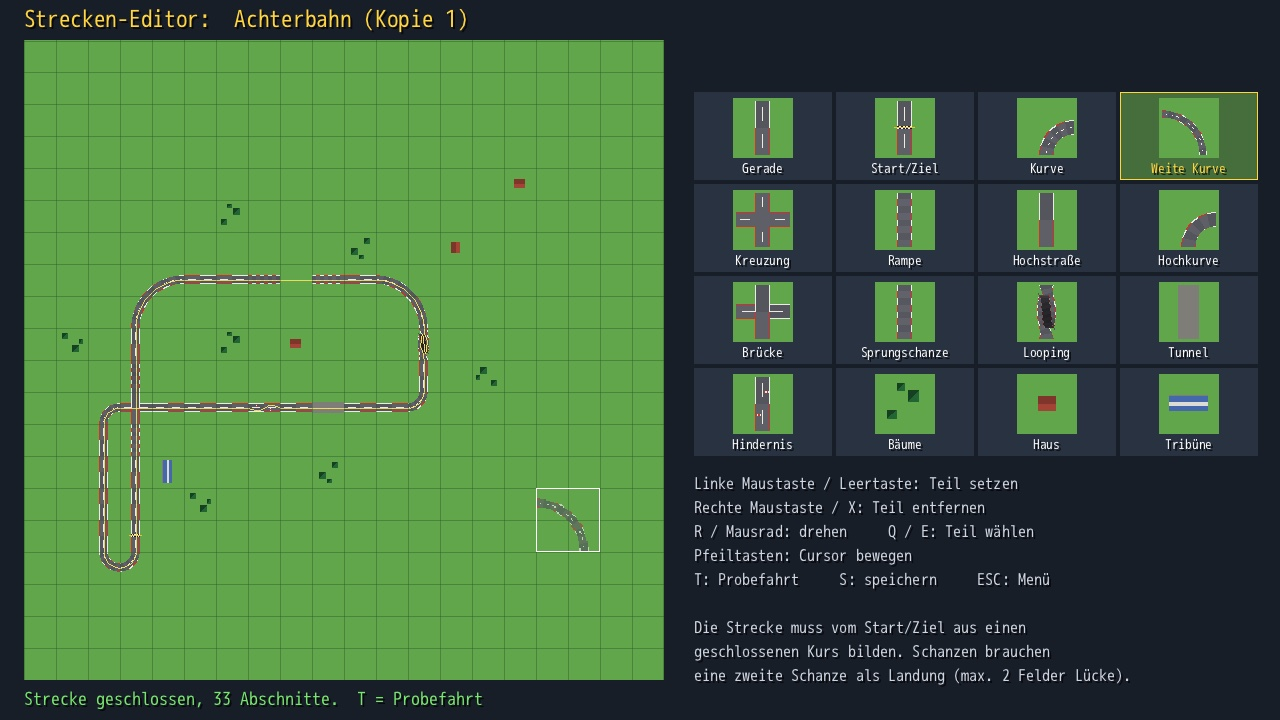
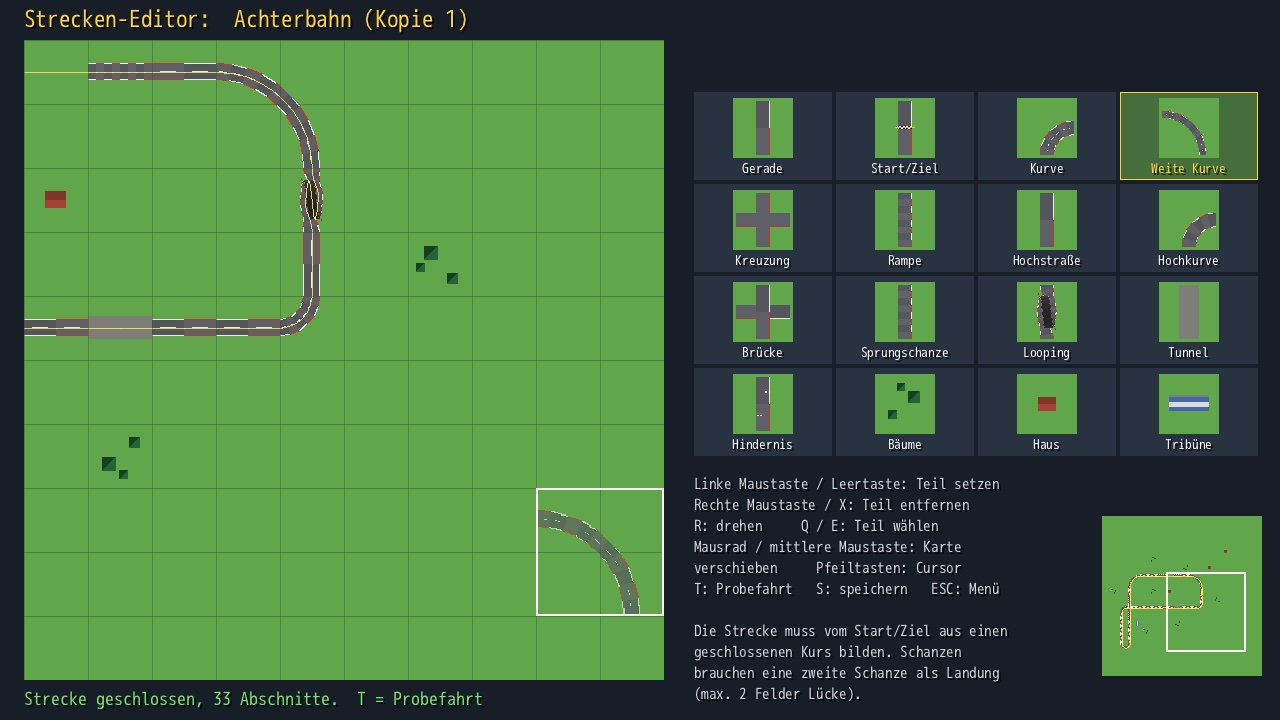
Editor: larger tiles on a scrollable map with an overview
The tiles are 64 px instead of 32 px, so the direction of a part is
easy to see. The map shows 10x10 of the 20x20 tiles and scrolls with
the mouse wheel, the middle mouse button, a click on the new overview
or the keyboard cursor. The mouse wheel no longer rotates the part.

diff --git a/app/game/editor.rb b/app/game/editor.rb
@@ -1,13 +1,23 @@
 # The track editor: a top-down map of the tile grid on the left, the
-# available pieces on the right. Pieces are placed with the mouse (or the
-# keyboard cursor) and the route is checked after every change.
+# available pieces on the right. The map shows a scrollable part of the
+# grid (mouse wheel, middle mouse button, the overview or the keyboard
+# cursor move it). Pieces are placed with the mouse (or the keyboard
+# cursor) and the route is checked after every change.
 class Editor
   MX = 24
   MY = 40
-  CELL = 32
+  CELL = 64
   MAP = CELL * Track::SIZE
+  VIEW = 640 # visible part of the map in pixels
+  SCROLL_MAX = MAP - VIEW
+  WHEEL = 32 # pixels per wheel step
   PX = 694
   ICON = 60
+  ICON_RT = 128 # resolution of a palette icon (also drawn as the ghost)
+  ICON_FILL = 0.9
+  OV = 160 # overview of the whole grid
+  OVX = 1102
+  OVY = 44
   SLOT_W = 142
   SLOT_H = 92
   PAL_TOP = 628
@@ -24,7 +34,9 @@ class Editor
     @changed = false
     @palette_ready = false
     @last_paint = nil
+    @drag = nil
     rebuild
+    center_view
   end
 
   def mark_saved
@@ -49,6 +61,72 @@ class Editor
     Pieces::ORDER[@sel]
   end
 
+  # ---------------------------------------------------------------- view
+
+  def scroll_to(x, y)
+    @vx = D3D.clamp(x, 0, SCROLL_MAX)
+    @vy = D3D.clamp(y, 0, SCROLL_MAX)
+  end
+
+  # Starts with the middle of the track (or of the grid) in view.
+  def center_view
+    ci = cj = Track::SIZE / 2.0
+    unless @track.empty?
+      cells = @track.cells.map do |k, (id, rot)|
+        i, j = @track.coords(k)
+        fw, fd = Pieces.footprint(id, rot)
+        [i, j, i + fw, j + fd]
+      end
+      ci = (cells.map { |c| c[0] }.min + cells.map { |c| c[2] }.max) / 2.0
+      cj = (cells.map { |c| c[1] }.min + cells.map { |c| c[3] }.max) / 2.0
+    end
+    scroll_to(ci * CELL - VIEW / 2, cj * CELL - VIEW / 2)
+    @cur = [D3D.clamp(ci.floor, 0, Track::SIZE - 1), D3D.clamp(cj.floor, 0, Track::SIZE - 1)]
+  end
+
+  # Scrolls just far enough to show the cursor and the tiles around it.
+  def show_cursor
+    i, j = @cur
+    x = [[@vx, (i - 1) * CELL].min, (i + 2) * CELL - VIEW].max
+    y = [[@vy, (j - 1) * CELL].min, (j + 2) * CELL - VIEW].max
+    scroll_to(x, y)
+  end
+
+  # Mouse wheel, middle mouse button and the overview. Returns true when
+  # the view moved.
+  def scroll_input(args, over_map)
+    kb = args.inputs.keyboard
+    mouse = args.inputs.mouse
+    x = @vx
+    y = @vy
+    if mouse.wheel
+      wx = mouse.wheel.x
+      wy = mouse.wheel.y
+      # a plain wheel scrolls sideways with Shift
+      wx, wy = wy, 0 if wx == 0 && (kb.key_held.shift || kb.key_down.shift)
+      scroll_to(@vx + wx * WHEEL, @vy + wy * WHEEL)
+    end
+    if mouse.button_middle
+      scroll_to(@vx - (mouse.x - @drag[0]), @vy - (mouse.y - @drag[1])) if @drag
+      @drag = [mouse.x, mouse.y]
+    else
+      @drag = nil
+    end
+    @ov_drag = false unless mouse.button_left
+    @ov_drag = true if mouse.click && mouse.button_left && over_overview?(mouse)
+    if @ov_drag
+      f = MAP / OV.to_f
+      scroll_to((mouse.x - OVX) * f - VIEW / 2, (mouse.y - OVY) * f - VIEW / 2)
+    end
+    @painting = false unless mouse.button_left
+    @painting = true if mouse.click && mouse.button_left && over_map
+    x != @vx || y != @vy
+  end
+
+  def over_overview?(mouse)
+    mouse.x >= OVX && mouse.x < OVX + OV && mouse.y >= OVY && mouse.y < OVY + OV
+  end
+
   def input(args)
     kb = args.inputs.keyboard
     down = kb.key_down
@@ -59,9 +137,6 @@ class Editor
 
     n = Pieces::ORDER.size
     @rot = (@rot + 1) % 4 if down.r
-    if mouse.wheel
-      @rot = (@rot + (mouse.wheel.y > 0 ? 1 : 3)) % 4
-    end
     @sel = (@sel + (kb.key_held.shift ? n - 1 : 1)) % n if down.tab
     @sel = (@sel + 1) % n if down.e
     @sel = (@sel + n - 1) % n if down.q
@@ -69,10 +144,13 @@ class Editor
     @cur[0] = D3D.clamp(@cur[0] - 1, 0, Track::SIZE - 1) if down.left
     @cur[1] = D3D.clamp(@cur[1] + 1, 0, Track::SIZE - 1) if down.up
     @cur[1] = D3D.clamp(@cur[1] - 1, 0, Track::SIZE - 1) if down.down
+    show_cursor if down.right || down.left || down.up || down.down
 
-    over_map = mouse.x >= MX && mouse.x < MX + MAP && mouse.y >= MY && mouse.y < MY + MAP
-    if over_map && (mouse.moved || mouse.button_left || mouse.button_right)
-      @cur = [((mouse.x - MX) / CELL).floor, ((mouse.y - MY) / CELL).floor]
+    over_map = mouse.x >= MX && mouse.x < MX + VIEW && mouse.y >= MY && mouse.y < MY + VIEW
+    scrolled = scroll_input(args, over_map)
+    if over_map && (scrolled || mouse.moved || mouse.button_left || mouse.button_right)
+      @cur = [D3D.clamp(((mouse.x - MX + @vx) / CELL).floor, 0, Track::SIZE - 1),
+              D3D.clamp(((mouse.y - MY + @vy) / CELL).floor, 0, Track::SIZE - 1)]
     end
     if mouse.click && !over_map
       idx = palette_index(mouse.x, mouse.y)
@@ -80,7 +158,7 @@ class Editor
     end
 
     @last_paint = nil unless mouse.button_left
-    if down.space || (over_map && mouse.button_left)
+    if down.space || (over_map && @painting)
       paint = [@cur[0], @cur[1], @sel, @rot]
       if paint != @last_paint
         @last_paint = paint
@@ -119,15 +197,15 @@ class Editor
 
   def render_palette(args)
     rt = args.outputs[:palette]
-    rt.w = ICON * Pieces::ORDER.size
-    rt.h = ICON
+    rt.w = ICON_RT * Pieces::ORDER.size
+    rt.h = ICON_RT
     rt.background_color = [0, 0, 0, 0]
     Pieces::ORDER.each_with_index do |id, n|
       piece = Pieces::DEFS[id]
       b = PieceBuilder.new(0, 0, 0.0, 0.0)
       piece.build.call(b)
-      scale = (ICON - 6) / ([piece.w, piece.d].max * World::T)
-      rt.sprites << MapView.prims([b.ground], [b.geo], scale, (n + 0.5) * ICON, ICON / 2.0)
+      scale = ICON_RT * ICON_FILL / ([piece.w, piece.d].max * World::T)
+      rt.sprites << MapView.prims([b.ground], [b.geo], scale, (n + 0.5) * ICON_RT, ICON_RT / 2.0)
     end
     @palette_ready = true
   end
@@ -140,7 +218,28 @@ class Editor
       rt.lines << { x: v, y: 0, x2: v, y2: MAP, r: 40, g: 90, b: 40, a: 110 }
       rt.lines << { x: 0, y: v, x2: MAP, y2: v, r: 40, g: 90, b: 40, a: 110 }
     end
+    MapView.render_world(args, :editor_overview, @world, OV, [98, 166, 76, 255], [255, 232, 90])
     @map_dirty = false
+  end
+
+  # The visible part of the map with the cursor, clipped by a render target.
+  def render_view(args)
+    rt = args.outputs[:editor_view]
+    rt.w = VIEW
+    rt.h = VIEW
+    rt.background_color = [98, 166, 76, 255]
+    ox = -@vx.round
+    oy = -@vy.round
+    rt.sprites << { x: ox, y: oy, w: MAP, h: MAP, path: :editor_map }
+    route = @world.route
+    cell = route[:cell]
+    if !route[:ok] && cell && @track.in_bounds?(cell[0], cell[1])
+      3.times do |n|
+        rt.borders << { x: ox + cell[0] * CELL + n, y: oy + cell[1] * CELL + n, w: CELL - 2 * n,
+                        h: CELL - 2 * n, r: 255, g: 60, b: 40 }
+      end
+    end
+    draw_ghost(rt, ox, oy)
   end
 
   def draw(args)
@@ -150,56 +249,73 @@ class Editor
     out = args.outputs.sprites
     hud.rect(args, 0, 0, 1280, 720, [24, 30, 40])
     hud.text(args, MX, 700, "Strecken-Editor:  #{@track.name}", 26, Hud::YELLOW)
-    out << { x: MX, y: MY, w: MAP, h: MAP, path: :editor_map }
+    render_view(args)
+    out << { x: MX, y: MY, w: VIEW, h: VIEW, path: :editor_view }
 
     route = @world.route
     if route[:ok]
       hud.text(args, MX, 20, "Strecke geschlossen, #{route[:steps].size} Abschnitte.  T = Probefahrt", 20, Hud::GREEN)
     else
       hud.text(args, MX, 20, "Nicht fahrbar: #{route[:error]}", 20, Hud::RED)
-      cell = route[:cell]
-      if cell && @track.in_bounds?(cell[0], cell[1])
-        args.outputs.borders << { x: MX + cell[0] * CELL, y: MY + cell[1] * CELL, w: CELL, h: CELL,
-                                  r: 255, g: 60, b: 40 }
-        args.outputs.borders << { x: MX + cell[0] * CELL + 1, y: MY + cell[1] * CELL + 1, w: CELL - 2,
-                                  h: CELL - 2, r: 255, g: 60, b: 40 }
-      end
     end
 
-    draw_ghost(args)
     draw_palette(args)
+    draw_overview(args)
 
     y = 236
     ['Linke Maustaste / Leertaste: Teil setzen',
      'Rechte Maustaste / X: Teil entfernen',
-     'R / Mausrad: drehen     Q / E: Teil wählen',
-     'Pfeiltasten: Cursor bewegen',
-     'T: Probefahrt     S: speichern     ESC: Menü',
+     'R: drehen     Q / E: Teil wählen',
+     'Mausrad / mittlere Maustaste: Karte',
+     'verschieben     Pfeiltasten: Cursor',
+     'T: Probefahrt   S: speichern   ESC: Menü',
      '',
      'Die Strecke muss vom Start/Ziel aus einen',
-     'geschlossenen Kurs bilden. Schanzen brauchen',
-     'eine zweite Schanze als Landung (max. 2 Felder Lücke).'].each do |line|
-      hud.text(args, PX, y, line, 18, [206, 214, 226])
-      y -= 24
+     'geschlossenen Kurs bilden. Schanzen',
+     'brauchen eine zweite Schanze als Landung',
+     '(max. 2 Felder Lücke).'].each do |line|
+      hud.text(args, PX, y, line, 17, [206, 214, 226])
+      y -= 21
     end
   end
 
-  def draw_ghost(args)
+  # The whole grid in small, with the visible part framed. A click moves
+  # the view there.
+  def draw_overview(args)
+    args.outputs.sprites << { x: OVX, y: OVY, w: OV, h: OV, path: :editor_overview }
+    f = OV / MAP.to_f
+    2.times do |n|
+      args.outputs.borders << { x: OVX + @vx * f + n, y: OVY + @vy * f + n, w: VIEW * f - 2 * n,
+                                h: VIEW * f - 2 * n, r: 255, g: 255, b: 255 }
+    end
+    route = @world.route
+    cell = route[:cell]
+    return if route[:ok] || !cell || !@track.in_bounds?(cell[0], cell[1])
+
+    s = OV / Track::SIZE.to_f
+    args.outputs.sprites << { x: OVX + cell[0] * s, y: OVY + cell[1] * s, w: s, h: s, path: :solid,
+                              r: 255, g: 60, b: 40 }
+  end
+
+  def draw_ghost(rt, ox, oy)
     i, j = @cur
     id = selected
     fw, fd = Pieces.footprint(id, @rot)
     ok = @track.in_bounds?(i, j) && @track.in_bounds?(i + fw - 1, j + fd - 1)
-    x = MX + i * CELL
-    y = MY + j * CELL
+    x = ox + i * CELL
+    y = oy + j * CELL
     piece = Pieces::DEFS[id]
-    size = [piece.w, piece.d].max * CELL * ICON / (ICON - 6.0)
+    size = [piece.w, piece.d].max * CELL / ICON_FILL
     if ok
-      args.outputs.sprites << { x: x + fw * CELL / 2.0 - size / 2, y: y + fd * CELL / 2.0 - size / 2,
-                                w: size, h: size, path: :palette, source_x: @sel * ICON, source_y: 0,
-                                source_w: ICON, source_h: ICON, angle: -90 * @rot, a: 170 }
+      rt.sprites << { x: x + fw * CELL / 2.0 - size / 2, y: y + fd * CELL / 2.0 - size / 2,
+                      w: size, h: size, path: :palette, source_x: @sel * ICON_RT, source_y: 0,
+                      source_w: ICON_RT, source_h: ICON_RT, angle: -90 * @rot, a: 170 }
     end
     c = ok ? [255, 255, 255] : [255, 60, 40]
-    args.outputs.borders << { x: x, y: y, w: fw * CELL, h: fd * CELL, r: c[0], g: c[1], b: c[2] }
+    2.times do |n|
+      rt.borders << { x: x + n, y: y + n, w: fw * CELL - 2 * n, h: fd * CELL - 2 * n,
+                      r: c[0], g: c[1], b: c[2] }
+    end
   end
 
   def draw_palette(args)
@@ -213,7 +329,7 @@ class Editor
       hud.rect(args, x, top - SLOT_H + 4, SLOT_W - 4, SLOT_H - 4, on ? [70, 110, 60] : [40, 50, 64])
       hud.rect(args, x + 39, top - 66, ICON, ICON, [98, 166, 76])
       args.outputs.sprites << { x: x + 39, y: top - 66, w: ICON, h: ICON, path: :palette,
-                                source_x: n * ICON, source_y: 0, source_w: ICON, source_h: ICON,
+                                source_x: n * ICON_RT, source_y: 0, source_w: ICON_RT, source_h: ICON_RT,
                                 angle: on ? -90 * @rot : 0 }
       hud.text(args, x + (SLOT_W - 4) / 2, top - 77, Pieces::DEFS[id].name, 15,
                on ? Hud::YELLOW : Hud::WHITE, 0.5)

diff --git a/tools/smoke_eval.rb b/tools/smoke_eval.rb
@@ -83,6 +83,7 @@ def tick(args)
         ed.instance_variable_set(:@sel, Pieces::ORDER.index(:wide_curve))
         ed.instance_variable_set(:@rot, 1)
         ed.instance_variable_set(:@cur, [16, 4])
+        ed.send(:show_cursor)
       end
       smoke_shot(args, 'editor') if s[:since] == 30
       if s[:since] == 50

diff --git a/README.md b/README.md
@@ -78,9 +78,10 @@ files in `tracks/user_N.txt`.
 |---|---|
 | Left mouse button / Space | Place the selected part (drag to paint) |
 | Right mouse button / X | Remove the part |
-| R / mouse wheel | Rotate |
+| R | Rotate |
 | Click on the palette, Q / E | Choose a part |
-| Arrow keys | Move the cursor |
+| Mouse wheel (Shift: sideways), middle mouse button, click on the overview | Scroll the map |
+| Arrow keys | Move the cursor (the map follows) |
 | T | Test drive |
 | S | Save (also saved when leaving) |
 
